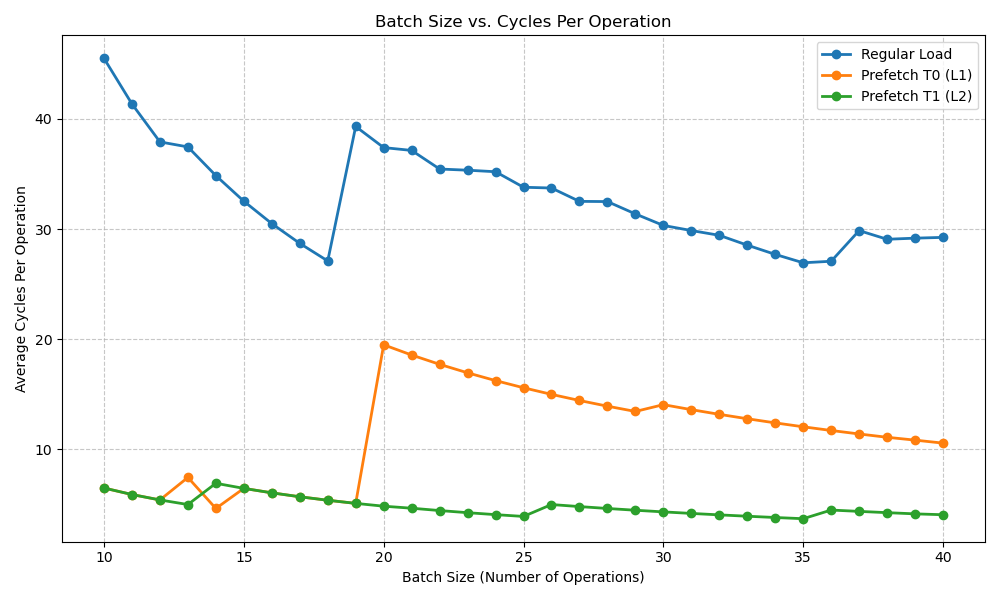
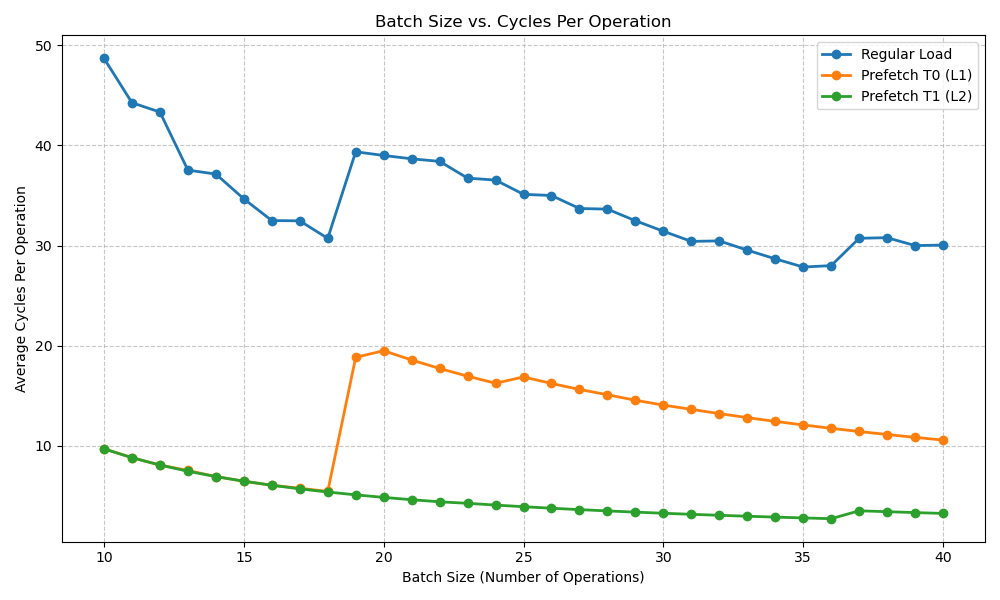
O3

diff --git a/scripts/eurosys_2026/collect_lfb/run_batch_test.py b/scripts/eurosys_2026/collect_lfb/run_batch_test.py
@@ -20,7 +20,7 @@ MODES = {"Regular Load": 0, "Prefetch T0 (L1)": 2, "Prefetch T1 (L2)": 3}
 def compile_c_program():
     """Compiles the C benchmark program."""
     print(f"Compiling {C_FILE}...")
-    compile_cmd = ["gcc", C_FILE, "-O1", "-mcrc32", "-o", "batch_test"]
+    compile_cmd = ["gcc", C_FILE, "-O3", "-mcrc32", "-o", "batch_test"]
     try:
         subprocess.run(compile_cmd, check=True)
         print("Compilation successful.\n")